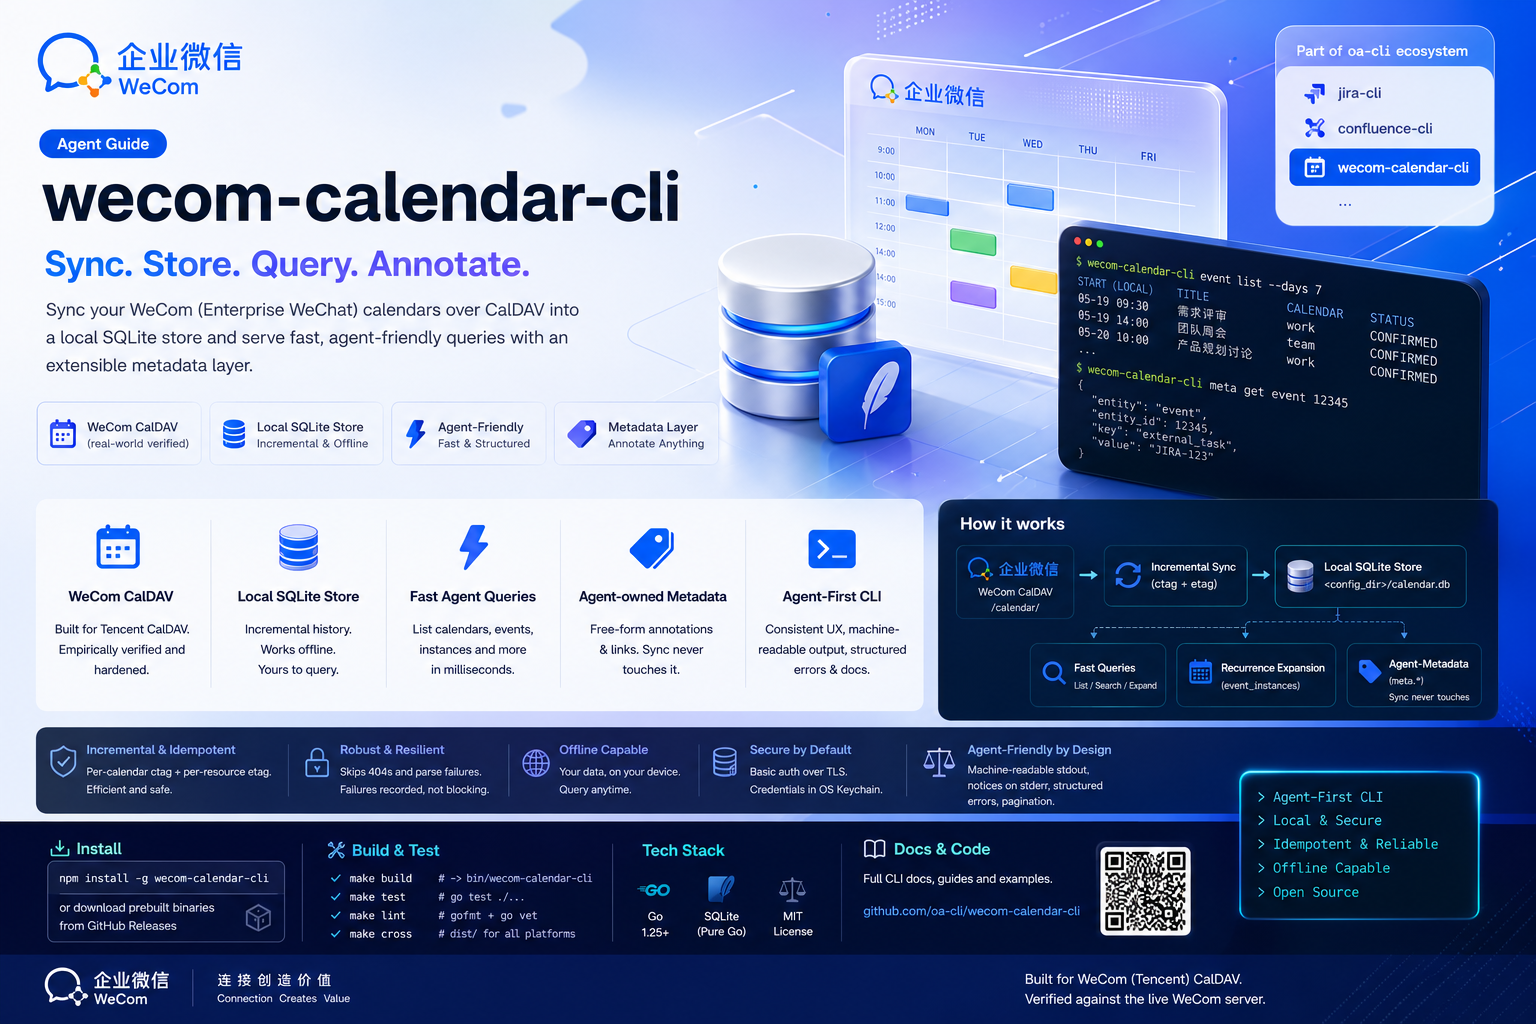
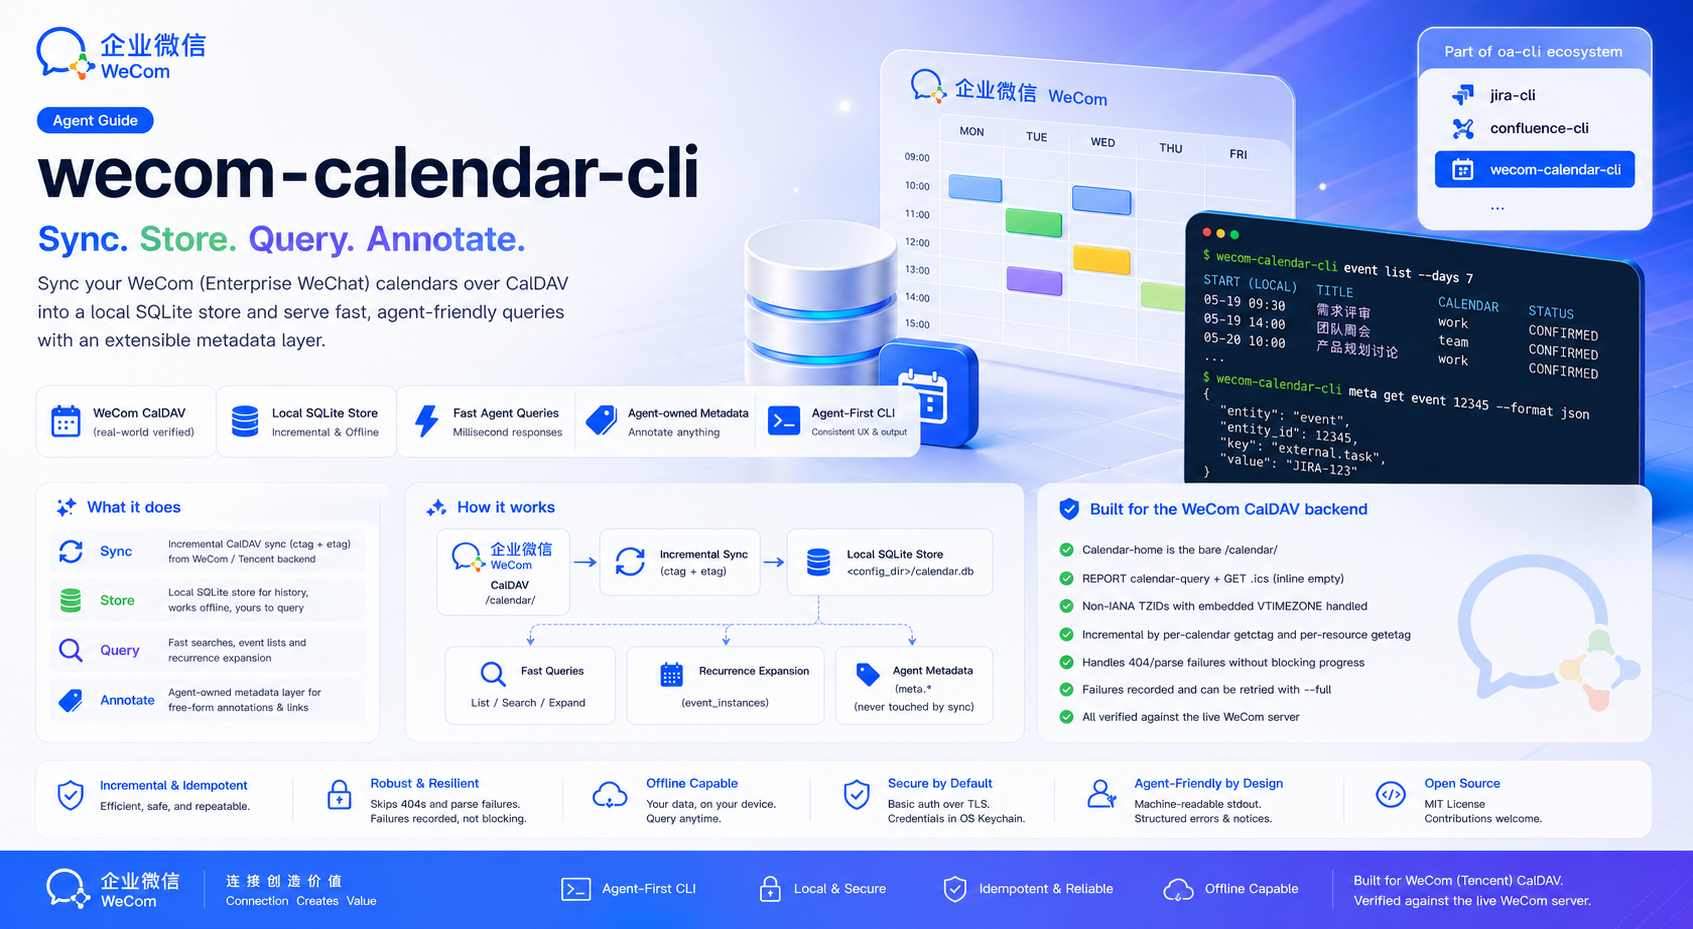
docs: refresh the poster and correct its intrinsic size
Replaces docs/image.png with the regenerated poster, which drops the two
copy-and-fail items from the previous version: the install command (it read
`npm install -g wecom-calendar-cli`, but the package is
`@angelmsger/wecom-calendar-cli`) and the repository URL and its QR code (they
pointed at `github.com/oa-cli/wecom-calendar-cli`, not `AngelMsger/...`).

The new artwork is 1693x929 rather than 1536x1024, so the hero <img> width and
height attributes are updated to match. Stale intrinsic dimensions would make
the browser reserve the wrong aspect ratio and shift the layout as the image
loads.

Two inaccuracies remain in the artwork and still need a regeneration: the
terminal sample shows `event list --days 7` (there is no --days flag; the
window is set with --since/--until), and `meta get event 12345` with
entity/entity_id fields (the real signature is `meta get <uid> [namespace]
[key]` and the fields are uid/namespace/key/value/source).

diff --git a/docs/index.html b/docs/index.html
@@ -228,7 +228,7 @@ a.card:hover { text-decoration: none; transform: translateY(-3px); border-color:
       <a class="btn btn-ghost" href="https://github.com/AngelMsger/wecom-calendar-cli">GitHub</a>
     </div>
     <div class="shot reveal d5">
-      <img src="image.png" width="1536" height="1024"
+      <img src="image.png" width="1693" height="929"
            alt="wecom-calendar-cli overview: WeCom CalDAV synced into a local SQLite store, with agent-friendly queries and an agent-owned metadata layer">
     </div>
   </div>
